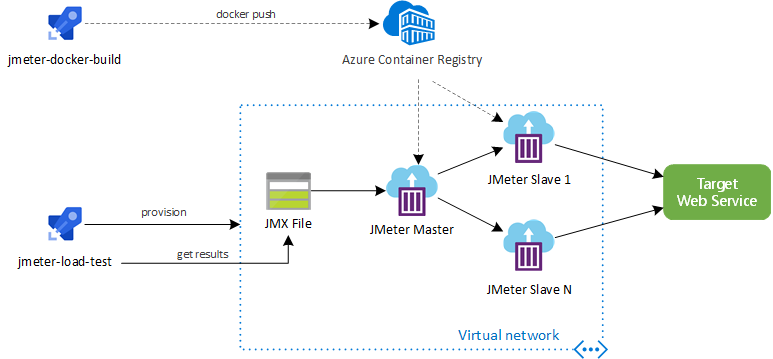
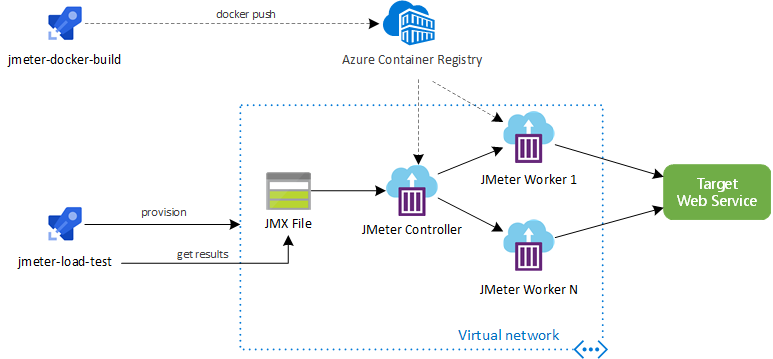
Replacing non-inclusive terms for controller/worker (#23)
* replacing non-inclusive terms

* replacing terms on architecture img

Changed region(s): [[0.4657, 0.6128, 0.5899, 0.6741], [0.621, 0.7967, 0.7451, 0.8273], [0.621, 0.4903, 0.7451, 0.5209]]

diff --git a/README.md b/README.md
@@ -31,15 +31,15 @@ The flow is triggered and controlled by an [Azure Pipeline](https://azure.micros
 | RESULTS | <li>Show JMeter logs</li><li>Get JMeter artifacts (e.g. logs, dashboard)</li><li>Convert JMeter tests result (JTL format) to JUnit format</li><li>Publish JUnit test results to Azure Pipelines</li><li>Publish JMeter artifacts to Azure Pipelines</li> |
 | TEARDOWN | <li>Destroy all ephemeral infrastructure with Terraform</li> |
 
-On the `SETUP` phase, JMeter agents are provisioned as [Azure Container Instance (ACI)](https://azure.microsoft.com/en-us/services/container-instances/) using a [custom Docker image](./docker/Dockerfile) on Terraform. Through a [master/slave](https://en.wikipedia.org/wiki/Master/slave_(technology)) approach, JMeter master is responsible to configure all slaves using its own protocol, consolidating all results and generating the resulting artifacts (dashboard, logs, etc).
+On the `SETUP` phase, JMeter agents are provisioned as [Azure Container Instance (ACI)](https://azure.microsoft.com/en-us/services/container-instances/) using a [custom Docker image](./docker/Dockerfile) on Terraform. Through a [Remote Testing](https://jmeter.apache.org/usermanual/remote-test.html) approach, JMeter controller is responsible to configure all workers using its own protocol, consolidating all results and generating the resulting artifacts (dashboard, logs, etc).
 
 The infrastructure provisioned by Terraform includes:
 
 * Resource Group
 * Virtual Network (VNet)
 * Storage Account File Share
-* 1 JMeter master on ACI
-* N JMeter slaves on ACI
+* 1 JMeter controller on ACI
+* N JMeter workers on ACI
 
 On the `RESULTS` phase, a [JMeter Report Dashboard](https://jmeter.apache.org/usermanual/generating-dashboard.html) and [Tests Results](https://docs.microsoft.com/en-us/azure/devops/pipelines/test/review-continuous-test-results-after-build?view=azure-devops) are published in the end of each load testing execution.
 
@@ -184,7 +184,7 @@ az pipelines create --name $PIPELINE_NAME_JMETER --repository $REPOSITORY_NAME \
     --yml-path pipelines/azure-pipelines.load-test.yml
 
 az pipelines variable create --pipeline-name $PIPELINE_NAME_JMETER --name TF_VAR_JMETER_JMX_FILE --allow-override
-az pipelines variable create --pipeline-name $PIPELINE_NAME_JMETER --name TF_VAR_JMETER_SLAVES_COUNT --allow-override
+az pipelines variable create --pipeline-name $PIPELINE_NAME_JMETER --name TF_VAR_JMETER_WORKERS_COUNT --allow-override
 ```
 
 ### 7. Update the JMX test definition (optional)
@@ -193,14 +193,14 @@ By default, this repository uses a `sample.jmx` file under the `jmeter` folder. 
 
 ### 8. Manually Run the JMeter Pipeline
 
-You can choose the JMeter file you want to run (e.g. [jmeter/sample.jmx](./jmeter/sample.jmx)) and how many JMeter slaves you will need for your test. Then you can run the JMeter pipeline using the CLI:
+You can choose the JMeter file you want to run (e.g. [jmeter/sample.jmx](./jmeter/sample.jmx)) and how many JMeter workers you will need for your test. Then you can run the JMeter pipeline using the CLI:
 
 ```shell
 JMETER_JMX_FILE=sample.jmx
-JMETER_SLAVES_COUNT=1
+JMETER_WORKERS_COUNT=1
 
 az pipelines run --name $PIPELINE_NAME_JMETER \
-    --variables TF_VAR_JMETER_JMX_FILE=$JMETER_JMX_FILE TF_VAR_JMETER_SLAVES_COUNT=$JMETER_SLAVES_COUNT
+    --variables TF_VAR_JMETER_JMX_FILE=$JMETER_JMX_FILE TF_VAR_JMETER_WORKERS_COUNT=$JMETER_WORKERS_COUNT
 ```
 
 Or even use the UI to define variables and Run the pipeline:

diff --git a/docs/jmeter-pipeline-settings.md b/docs/jmeter-pipeline-settings.md
@@ -8,10 +8,10 @@ All environment variables that start with the prefix `TF_VAR` can be used by Ter
 
 There are 2 variables that can be set directly on the JMeter pipeline. Those are:
 
-| Environment Variable       | Terraform Variable  | Default Value |
-|----------------------------|---------------------|---------------|
-| TF_VAR_JMETER_JMX_FILE     | JMETER_JMX_FILE     |               |
-| TF_VAR_JMETER_SLAVES_COUNT | JMETER_SLAVES_COUNT |       1       |
+| Environment Variable        | Terraform Variable   | Default Value |
+|-----------------------------|----------------------|---------------|
+| TF_VAR_JMETER_JMX_FILE      | JMETER_JMX_FILE      |               |
+| TF_VAR_JMETER_WORKERS_COUNT | JMETER_WORKERS_COUNT |       1       |
 
 All the other variables can be set on a library group called `JMETER_TERRAFORM_SETTINGS`. If a variable is not present on that library, a default value will be used, as the following table shows:
 
@@ -22,10 +22,10 @@ All the other variables can be set on a library group called `JMETER_TERRAFORM_S
 | TF_VAR_PREFIX                         | PREFIX                         |        jmeter       |
 | TF_VAR_VNET_ADDRESS_SPACE             | VNET_ADDRESS_SPACE             |     10.0.0.0/16     |
 | TF_VAR_SUBNET_ADDRESS_PREFIX          | SUBNET_ADDRESS_PREFIX          |     10.0.0.0/24     |
-| TF_VAR_JMETER_SLAVE_CPU               | JMETER_SLAVE_CPU               |         2.0         |
-| TF_VAR_JMETER_SLAVE_MEMORY            | JMETER_SLAVE_MEMORY            |         8.0         |
-| TF_VAR_JMETER_MASTER_CPU              | JMETER_MASTER_CPU              |         2.0         |
-| TF_VAR_JMETER_MASTER_MEMORY           | JMETER_MASTER_MEMORY           |         8.0         |
+| TF_VAR_JMETER_WORKER_CPU              | JMETER_WORKER_CPU              |         2.0         |
+| TF_VAR_JMETER_WORKER_MEMORY           | JMETER_WORKER_MEMORY           |         8.0         |
+| TF_VAR_JMETER_CONTROLLER_CPU          | JMETER_CONTROLLER_CPU          |         2.0         |
+| TF_VAR_JMETER_CONTROLLER_MEMORY       | JMETER_CONTROLLER_MEMORY       |         8.0         |
 | TF_VAR_JMETER_DOCKER_IMAGE            | JMETER_DOCKER_IMAGE            | justb4/jmeter:5.1.1 |
 | TF_VAR_JMETER_DOCKER_PORT             | JMETER_DOCKER_PORT             |         1099        |
 | TF_VAR_JMETER_IMAGE_REGISTRY_SERVER   | JMETER_IMAGE_REGISTRY_SERVER   |                     |
